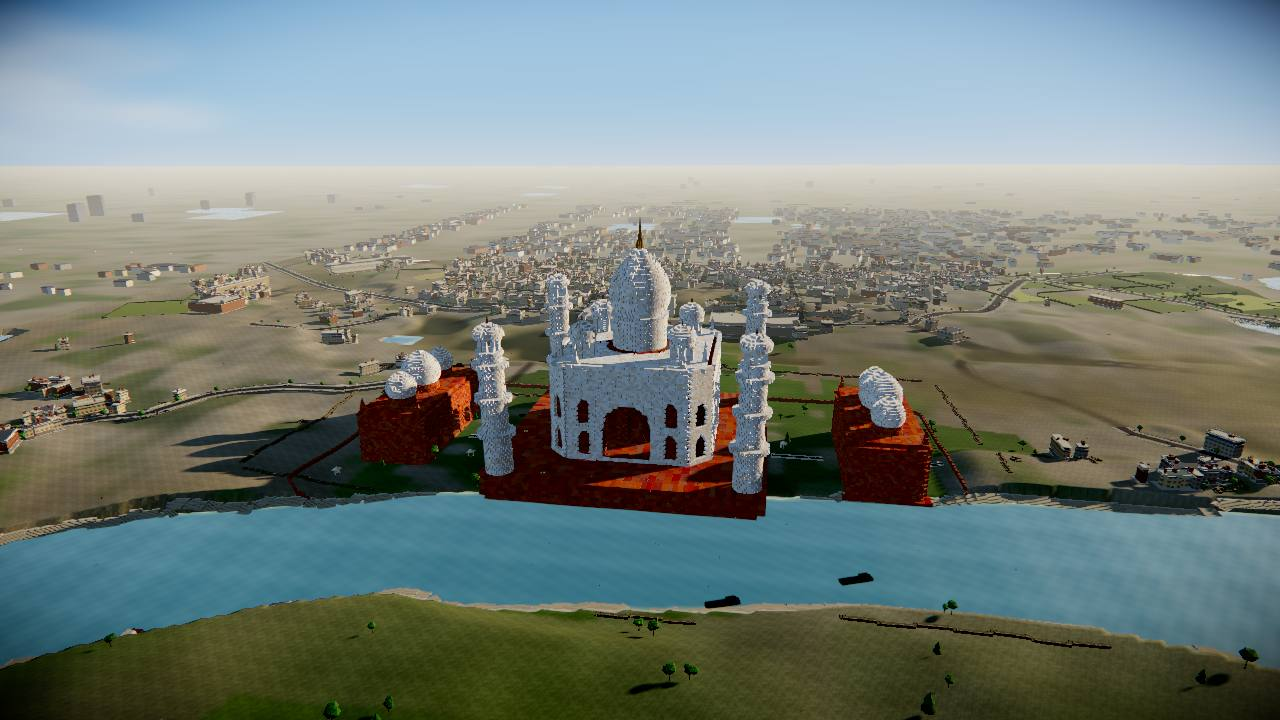
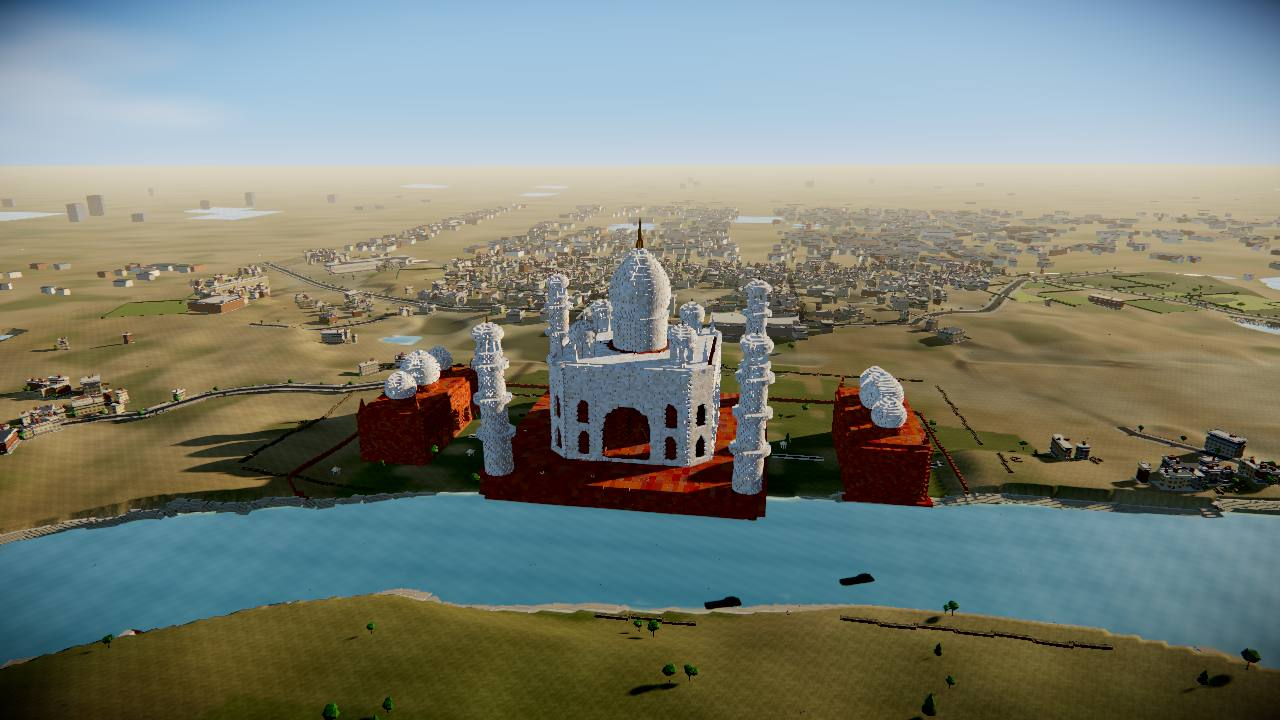
Agra: the Yamuna plain's own ground
Agra was drawn on London's palette for six maps — brick-dust paving,
deep grass, black asphalt and a cold green riverbed on the Yamuna
floodplain. It has its own now: warm ochre ground, dusty grey roads,
broad pale sandbanks over a muddy bed, the watered garden the one strong
green, and a warm haze sitting low on the plain. The recon photograph is
re-taken on the new ground.

Claude-Session: https://claude.ai/code/session_01Vm4UdrLmhsEiZM8Dk4Wi6F

diff --git a/src/game/levels.js b/src/game/levels.js
@@ -131,6 +131,26 @@ export const LEVELS = {
       ornament: 'pavilions',      // chattris on the terrace corners
       river: 'ghats',             // steps down to the Yamuna
     },
+    // The Yamuna floodplain in the dry season. Agra is dust: the town's
+    // ground is a warm ochre, the roads are grey under a film of it, the
+    // Yamuna runs low between broad pale sandbanks over a muddy bed, and the
+    // only strong green on the map is the watered garden. It had London's
+    // ground — brick-dust paving, deep grass, black asphalt, a cold green
+    // riverbed — for six maps.
+    palette: {
+      urban: new THREE.Color(0xc4ad82),
+      urbanAlt: new THREE.Color(0xab9366),
+      park: new THREE.Color(0x5c6e38),
+      parkAlt: new THREE.Color(0x71803f),
+      road: new THREE.Color(0x5a544a),
+      bank: new THREE.Color(0xd8caa4),
+      bed: new THREE.Color(0x5e6247),
+      dry: new THREE.Color(0xdccb9e),
+    },
+    setting: {
+      // Hot, dusty and low: the haze is warm and sits on the plain.
+      haze: { colour: 0xd6c9ae, density: 0.00026 },
+    },
     brief: 'The dome stands on four piers. Shelling the shell only makes holes.',
   },
 
